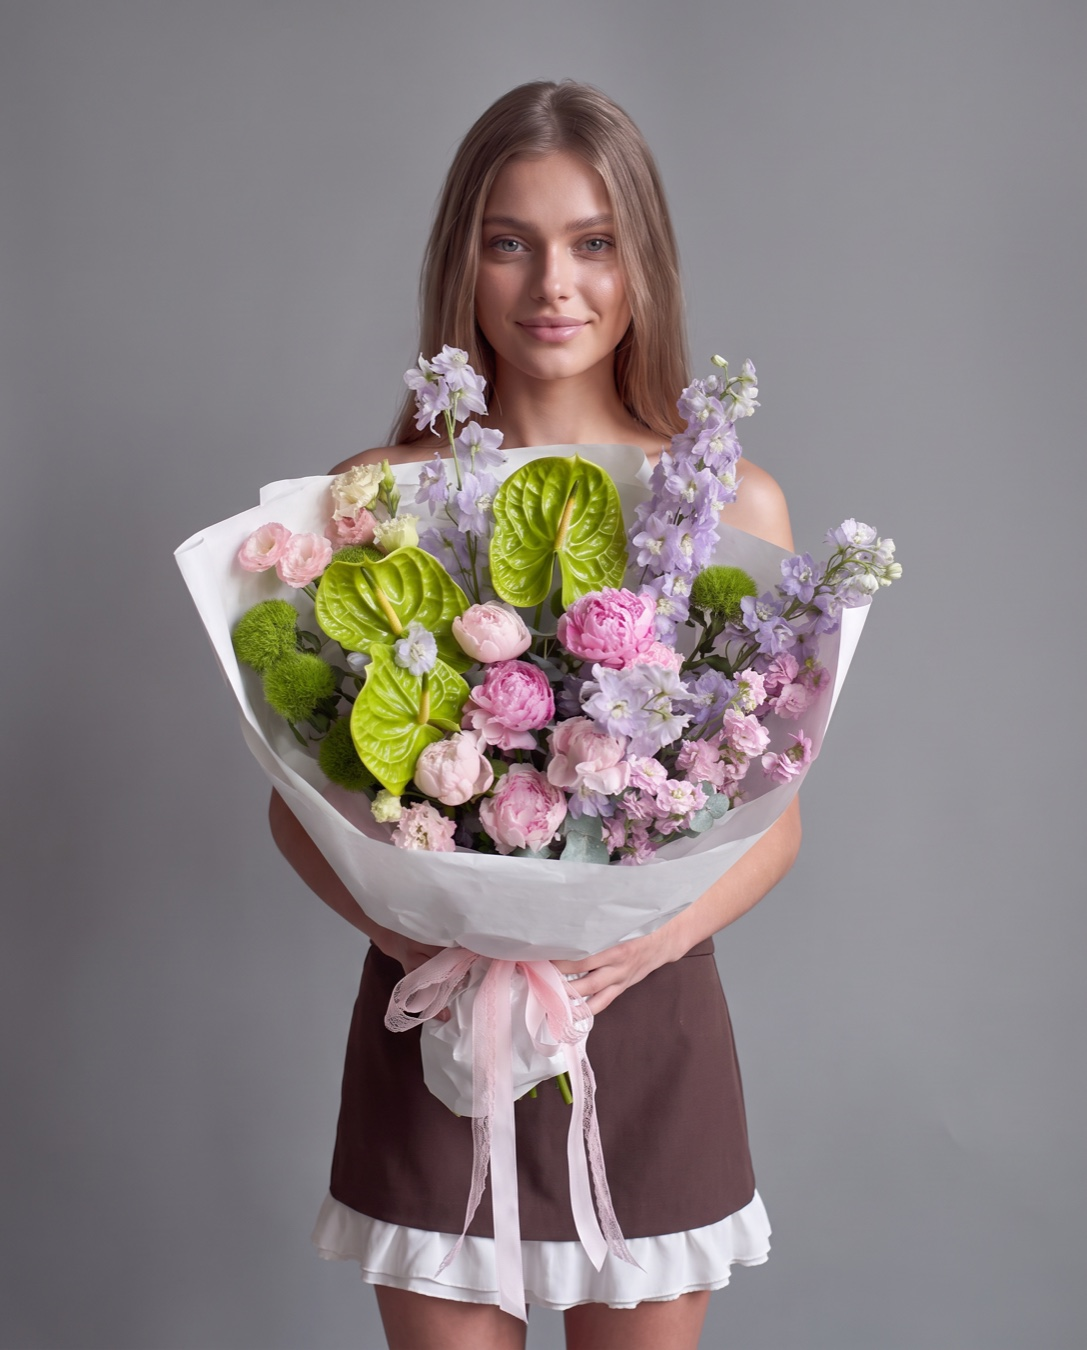
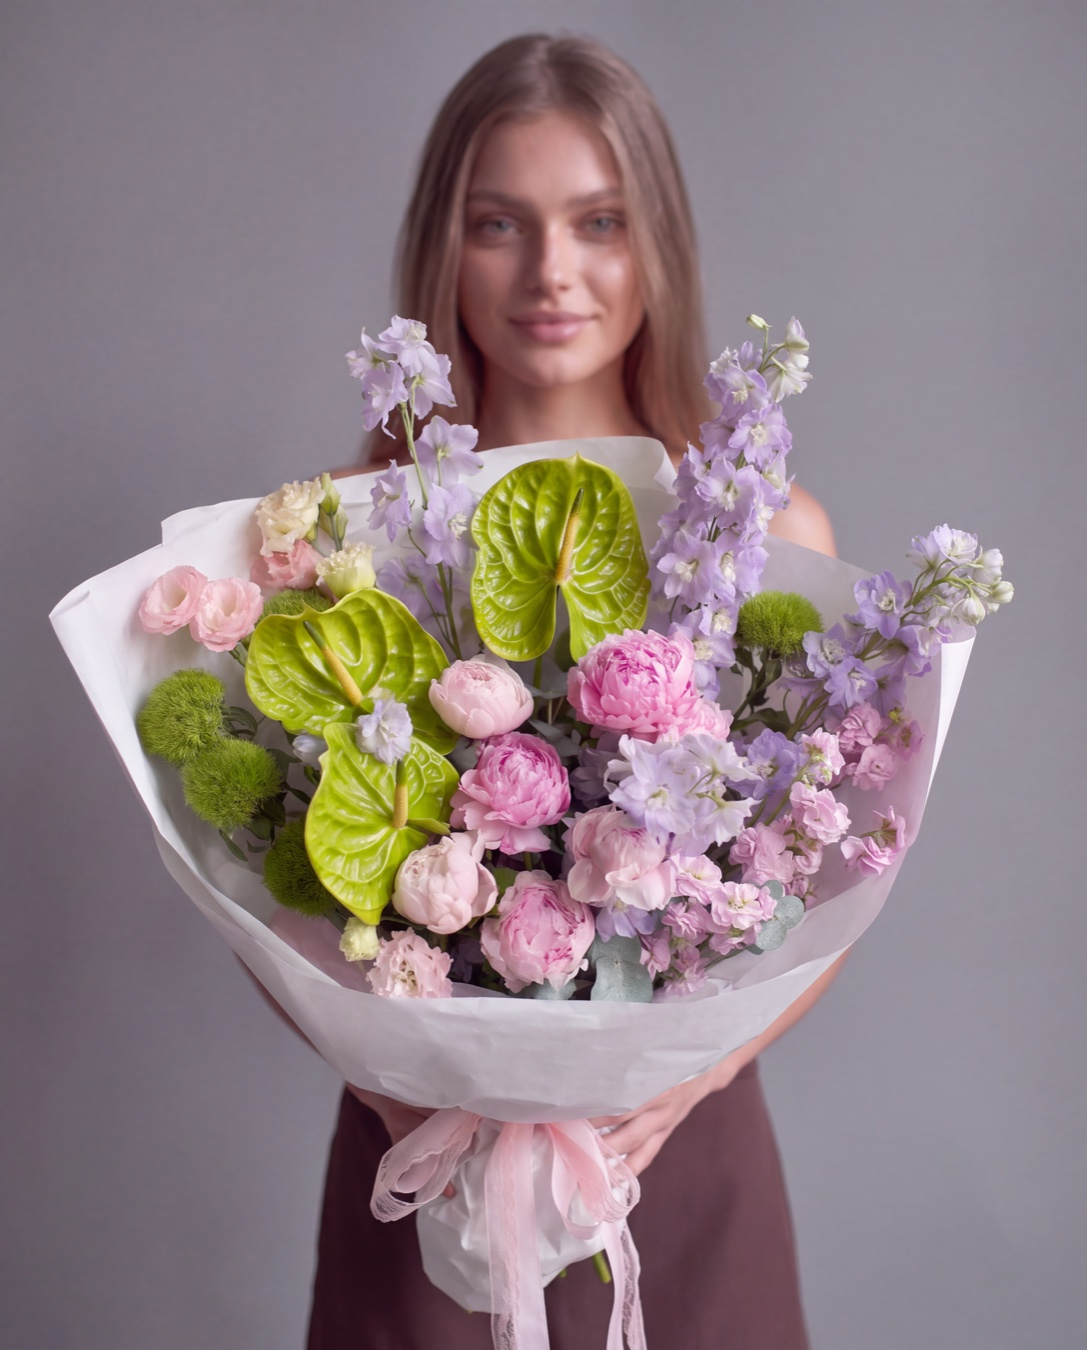
Кадр шага 02 карточки заменён на запасной из серии — фон совпадает с остальными

diff --git a/ai/razbory/kartochka/index.html b/ai/razbory/kartochka/index.html
@@ -428,7 +428,7 @@ h2{font-family:var(--disp);font-weight:800;text-transform:uppercase;letter-spaci
     </figure>
 
     <figure class="card">
-      <img src="../../img/razbory/kartochka/2-model.jpg?v=2" alt="Модель с букетом антуриумов и пионов, портрет на сером фоне" loading="lazy" decoding="async">
+      <img src="../../img/razbory/kartochka/2-model.jpg?v=3" alt="Модель с букетом антуриумов и пионов, портрет на сером фоне" loading="lazy" decoding="async">
       <figcaption class="cap">
         <div class="n">02</div>
         <h3>Модель — из паспорта</h3>
